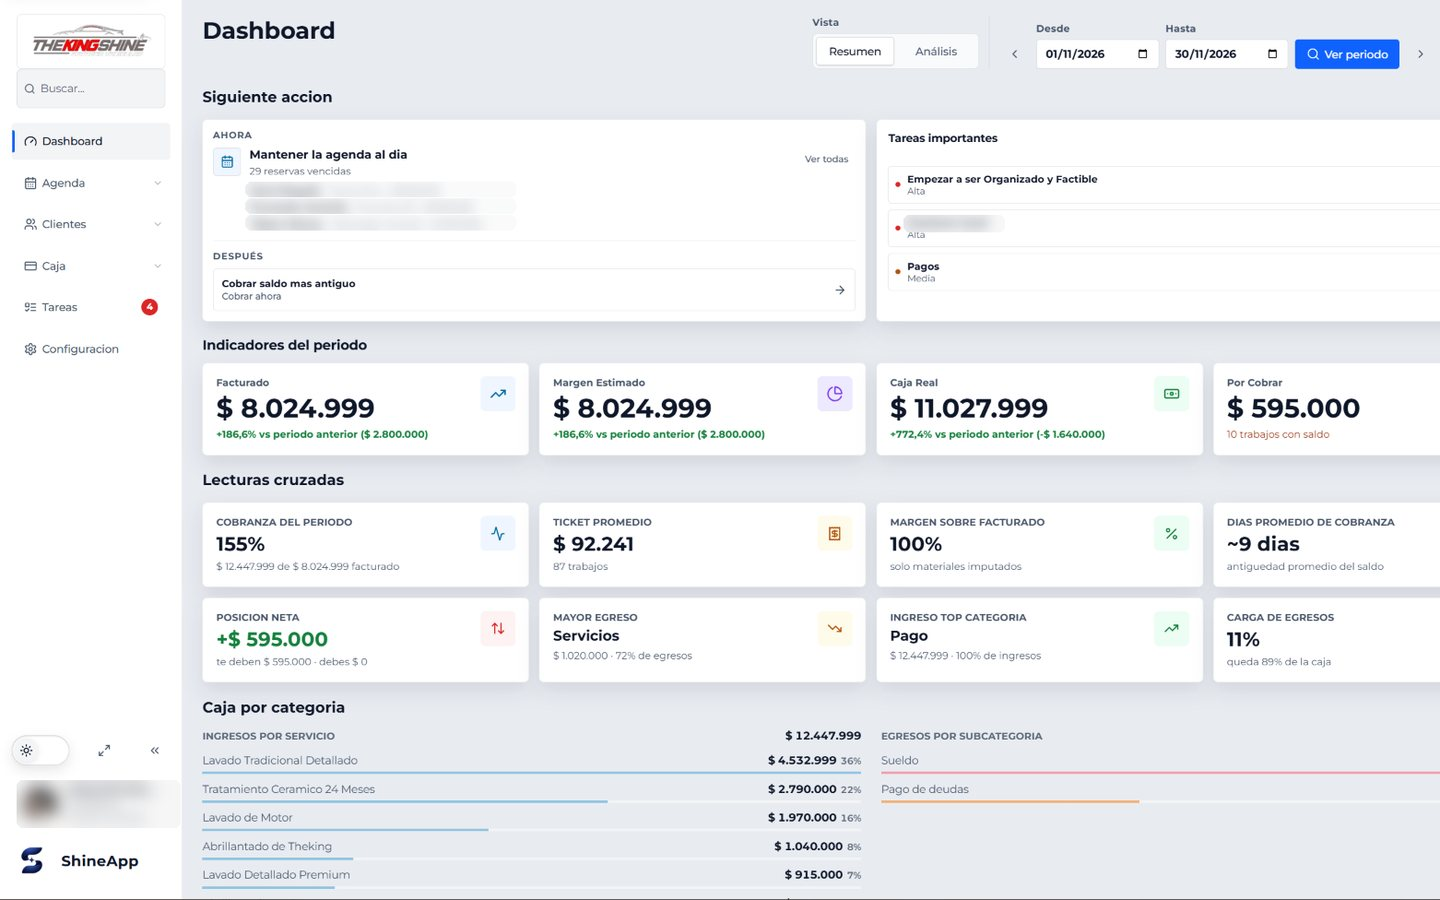
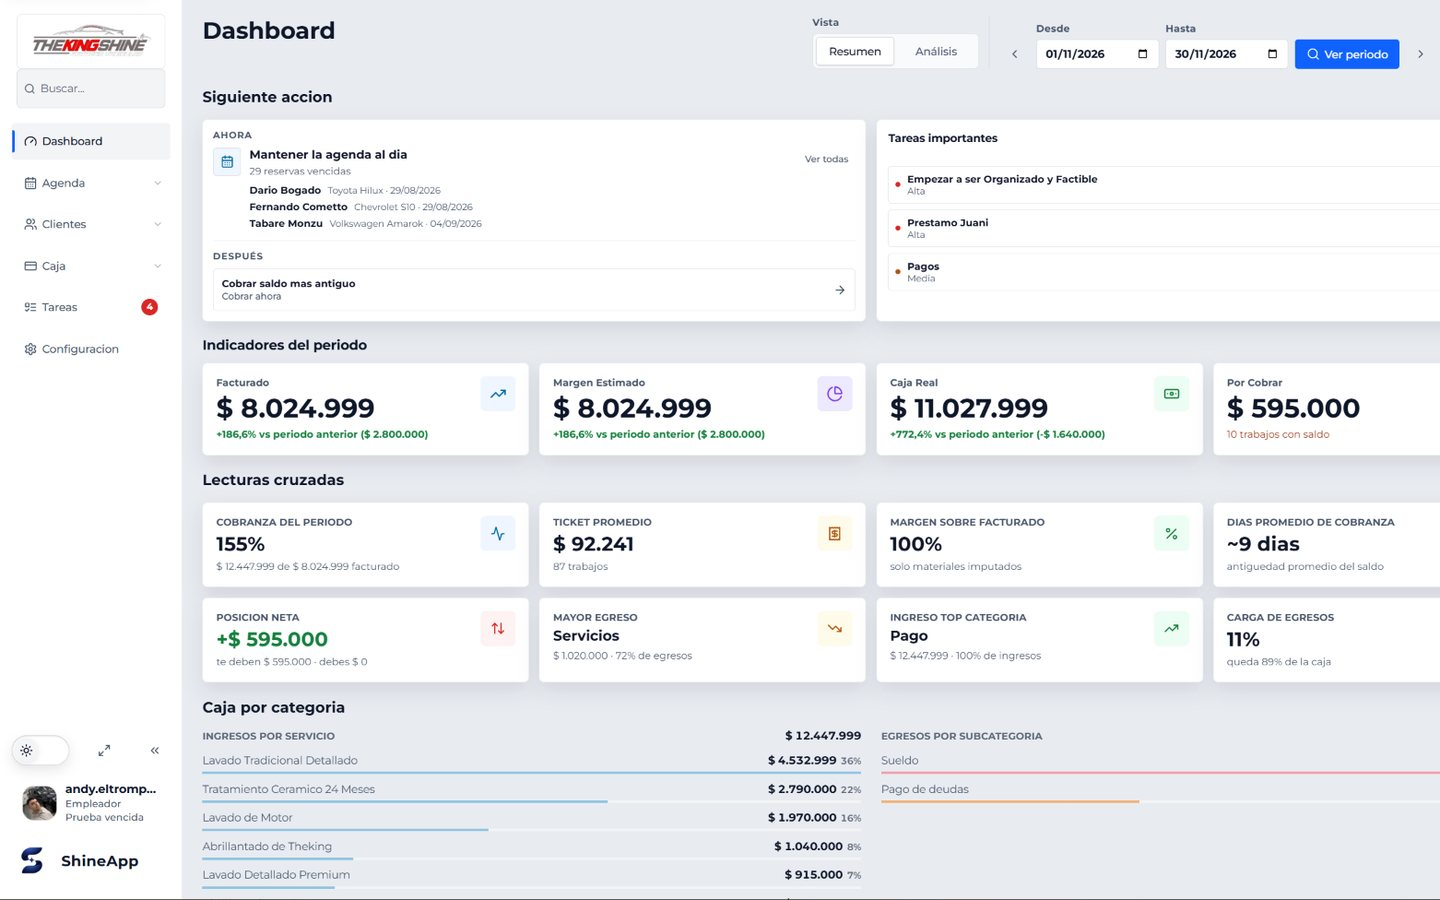
feat: publish the ShineApp panel capture without blur

Changed region(s): [[0.1562, 0.1867, 0.3438, 0.28], [0.0, 0.84, 0.125, 0.9333], [0.625, 0.2178, 0.6875, 0.28]]

diff --git a/docs/plans/2026-11-19-microinteracciones.md b/docs/plans/2026-11-19-microinteracciones.md
@@ -406,7 +406,7 @@ Helpers nuevos: `staggerStyle(index)` (`src/components/world/stagger.ts`) escrib
 
 ### Capturas reales de los trabajos
 
-- **ShineApp:** el panel (dashboard) es ahora la **primera** imagen (`public/images/proyectos/shineapp/panel.jpg`); la pantalla de acceso queda segunda. **Privacidad:** antes de publicar se difuminaron con un desenfoque suave, que sigue leyéndose como interfaz, los nombres, autos y fechas de la lista "Ahora", el nombre y la foto de la persona conectada (abajo a la izquierda) y, por precaución, el título de una tarea personal ("Préstamo…"). Los montos y gráficos quedan como estaban. El recorte deja fuera la barra de desplazamiento y el borde derecho de la cuarta columna de tarjetas.
+- **ShineApp:** el panel (dashboard) es ahora la **primera** imagen (`public/images/proyectos/shineapp/panel.jpg`); la pantalla de acceso queda segunda. **Privacidad:** antes de publicar se difuminaron con un desenfoque suave, que sigue leyéndose como interfaz, los nombres, autos y fechas de la lista "Ahora", el nombre y la foto de la persona conectada (abajo a la izquierda) y, por precaución, el título de una tarea personal ("Préstamo…"). Los montos y gráficos quedan como estaban. **Revertido el 20/11 por pedido de Juani** ("No difumines nada"): el panel se publica sin ningún desenfoque, con el mismo recorte. El recorte deja fuera la barra de desplazamiento y el borde derecho de la cuarta columna de tarjetas.
 - **Consignataria y portfolio:** las capturas nuevas muestran la misma vista que las anteriores (el inicio), así que **las reemplazan** (`escritorio.jpg`). La del portfolio está en tema oscuro.
 - Las tres se recortaron a 16:10 sin la barra de desplazamiento ni el borde de la ventana, se llevaron a 1440 × 900 y se exportaron en JPG progresivo (100 a 190 KB, como las anteriores), con textos alternativos en castellano. Se borró la carpeta `entrantes/`.
 - El índice muestra la primera imagen de cada proyecto; la segunda de ShineApp queda en los datos (la usaría una galería o la página del caso).
@@ -428,4 +428,4 @@ Helpers nuevos: `staggerStyle(index)` (`src/components/world/stagger.ts`) escrib
 ### Límites
 
 - No se probó en un teléfono real, en tablet táctil ni en Safari/Firefox.
-- Conviene que Juani revise el panel de ShineApp difuminado antes de publicar.
+- Juani revisó el panel de ShineApp y pidió publicarlo sin difuminar nada.
